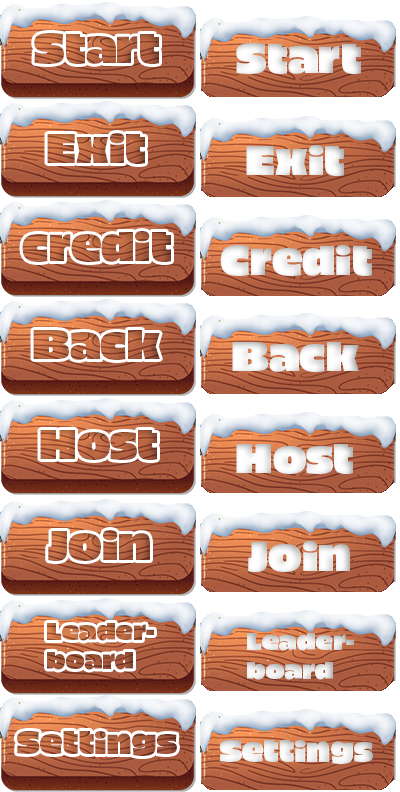
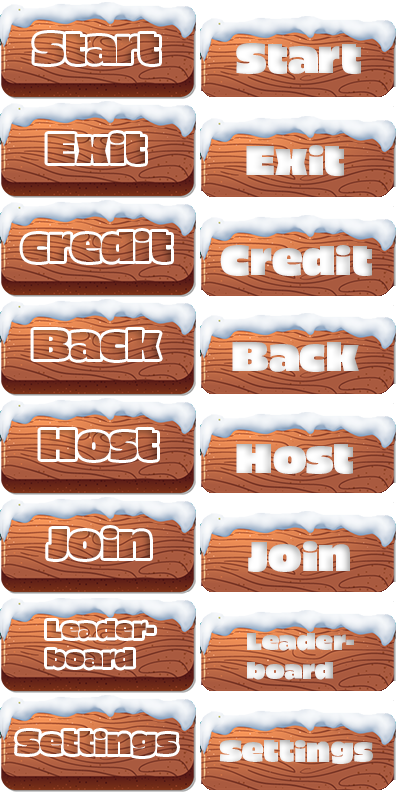
Fixed new menus and buttons

Changed region(s): [[0.0, 0.6364, 0.51, 0.8788]]

diff --git a/client/src/main.c b/client/src/main.c
@@ -92,7 +92,7 @@ int initializations(Game *pGame){
         return 0;
 	}
     
-    if(SDLNet_ResolveHost(&(pGame->serverAddress), "130.229.190.151", 2069)){
+    if(SDLNet_ResolveHost(&(pGame->serverAddress), "130.229.158.197", 2069)){
         printf("SDLNet_ResolveHost(127.0.0.1 2000): %s\n", SDLNet_GetError());
         return 0;
     }
@@ -188,44 +188,29 @@ void run(Game *pGame){
             int mouseX, mouseY;
             case MENU:
                 SDL_GetMouseState(&mouseX, &mouseY);
-                if(!joining){
-                    SDL_SetRenderDrawColor(pGame->pRenderer,255,255,255,255);
-                    SDL_RenderClear(pGame->pRenderer);
-                    renderMenuBackground(pGame->pMenuBackground);
-                    for(int i = 0; i < 3;i++){
-                        if(hover(mouseX, mouseY, pGame->pButton[i])){
-                            drawButton(pGame->pButton[i], i+3);
-                        }
-                        else{
-                            drawButton(pGame->pButton[i], i);
-                        }
-                    }
-                    SDL_RenderPresent(pGame->pRenderer);  
-                }
+                SDL_SetRenderDrawColor(pGame->pRenderer,255,255,255,255);
+                SDL_RenderClear(pGame->pRenderer);
+                renderMenuBackground(pGame->pMenuBackground);
+                drawButton(pGame->pButton[0], 0, hover(mouseX, mouseY, pGame->pButton[0]));
+                drawButton(pGame->pButton[1], 1, hover(mouseX, mouseY, pGame->pButton[1]));
+                drawButton(pGame->pButton[2], 2, hover(mouseX, mouseY, pGame->pButton[2]));
+                drawButton(pGame->pButton[6], 6, hover(mouseX, mouseY, pGame->pButton[6]));
+                drawButton(pGame->pButton[7], 7, hover(mouseX, mouseY, pGame->pButton[7]));
+                SDL_RenderPresent(pGame->pRenderer);  
                 if(SDL_PollEvent(&event)){
                     if(event.type == SDL_QUIT){
                         active = false;
                     }
                     if(!joining && event.type == SDL_MOUSEBUTTONDOWN){
-                        if(mouseX >= 200 && mouseX <= 600 && mouseY >= 200 && mouseY <= 355){
-                            /*joining = 1;
-                            cData.playerNumber =- 1;
-                            memcpy(pGame->pPacket->data, &cData, sizeof(ClientData));
-                            pGame->pPacket->len = sizeof(ClientData);*/
+                        if(mouseX >= 200 && mouseX <= 600 && mouseY >= 150 && mouseY <= 348){
                             pGame->state = JOIN;
                         }
-                        if(mouseX >= 300 && mouseX <= 500 && mouseY >= 400 && mouseY <= 505){
+                        if(mouseX >= 300 && mouseX <= 500 && mouseY >= 570 && mouseY <= 669){
                             active = false;
                         }
-                        if(mouseX >= 580 && mouseX <= 780 && mouseY >= 650 && mouseY <= 755){
+                        if(mouseX >= 580 && mouseX <= 780 && mouseY >= 660 && mouseY <= 759){
                             pGame->state = CREDITS;
                         }
-                    }
-                    if(joining){
-                        SDL_SetRenderDrawColor(pGame->pRenderer,255,255,255,255);
-                        SDL_RenderClear(pGame->pRenderer);
-                        drawText(pGame->pStartText);
-                        SDL_RenderPresent(pGame->pRenderer);
                     }
                 }
                 if(joining){
@@ -256,10 +241,20 @@ void run(Game *pGame){
                 SDL_SetRenderDrawColor(pGame->pRenderer,255,255,255,255);
                 SDL_RenderClear(pGame->pRenderer);
                 renderMenuBackground(pGame->pCreditBackground);
-                drawButton(pGame->pButton[3], 1);
+                drawButton(pGame->pButton[3], 3, hover(mouseX, mouseY, pGame->pButton[3]));
                 SDL_RenderPresent(pGame->pRenderer);
                 break;
             case JOIN:
+                SDL_GetMouseState(&mouseX, &mouseY);
+                if(!joining){
+                    SDL_SetRenderDrawColor(pGame->pRenderer,255,255,255,255);
+                    SDL_RenderClear(pGame->pRenderer);
+                    renderMenuBackground(pGame->pMenuBackground);
+                    drawButton(pGame->pButton[3], 3, hover(mouseX, mouseY, pGame->pButton[3]));
+                    drawButton(pGame->pButton[4], 4, hover(mouseX, mouseY, pGame->pButton[4]));
+                    drawButton(pGame->pButton[5], 5, hover(mouseX, mouseY, pGame->pButton[5]));
+                    SDL_RenderPresent(pGame->pRenderer);
+                }
                 if(SDL_PollEvent(&event)){
                     if(event.type == SDL_QUIT){
                         active = false;
@@ -267,12 +262,33 @@ void run(Game *pGame){
                     if(event.key.keysym.scancode == SDL_SCANCODE_B){
                         pGame->state = MENU;
                     }
+                    if(!joining && event.type == SDL_MOUSEBUTTONDOWN){
+                        if(mouseX >= 300 && mouseX <= 500 && mouseY >= 200 && mouseY <= 299){
+                            joining = 1;
+                            cData.playerNumber =- 1;
+                            memcpy(pGame->pPacket->data, &cData, sizeof(ClientData));
+                            pGame->pPacket->len = sizeof(ClientData);
+                        }
+                        if(mouseX >= 300 && mouseX <= 500 && mouseY >= 660 && mouseY <= 759){
+                            pGame->state = MENU;
+                        }
+                    }
+                    if(joining){
+                        SDL_SetRenderDrawColor(pGame->pRenderer,255,255,255,255);
+                        SDL_RenderClear(pGame->pRenderer);
+                        drawText(pGame->pStartText);
+                        SDL_RenderPresent(pGame->pRenderer);
+                    }
                 }
-                SDL_SetRenderDrawColor(pGame->pRenderer,255,255,255,255);
-                SDL_RenderClear(pGame->pRenderer);
-                renderMenuBackground(pGame->pMenuBackground);
-                SDL_RenderPresent(pGame->pRenderer);
-
+                if(joining){
+                    SDLNet_UDP_Send(pGame->pSocket, -1, pGame->pPacket);
+                }
+                if(SDLNet_UDP_Recv(pGame->pSocket,pGame->pPacket)==1){
+                    updateWithServerData(pGame);
+                    if(pGame->state == ONGOING){
+                        joining = 0;
+                    }
+                }
             break;
             case ONGOING:
                 while(SDLNet_UDP_Recv(pGame->pSocket, pGame->pPacket)){
@@ -292,6 +308,7 @@ void run(Game *pGame){
                     if (!isColliding(characterRect, snowballRect)){
                         setCharacterDead(pGame->pCharacter[pGame->characterNumber]);
                         cData.command = DEAD;
+                        cData.command = FREEZE;
                         memcpy(pGame->pPacket->data, &cData, sizeof(ClientData));
                         pGame->pPacket->len = sizeof(ClientData);
                         SDLNet_UDP_Send(pGame->pSocket, -1,pGame->pPacket);

diff --git a/lib/src/button.c b/lib/src/button.c
@@ -43,29 +43,35 @@ int hover(int x, int y, Button *pButton){
     return 0;
 }
 
-void drawButton(Button *pButton , int index){
+void drawButton(Button *pButton , int index , int hover){
 
-    if (index == 1){
-        pButton->buttonSrcRect.x = 400;
+    if(index == 0){
+        pButton->buttonSrcRect.y = 0;
     }
-    else if (index == 2){
-        pButton->buttonSrcRect.x = 800;
+    if(index == 1){
+        pButton->buttonSrcRect.y = 99 * index;
     }
-    else if (index == 3){
-        pButton->buttonSrcRect.x = 200;
+    if(index == 2){
+        pButton->buttonSrcRect.y = 99 * index;
     }
-    else if (index == 4){
-        pButton->buttonSrcRect.x = 600;
+    if(index == 3){
+        pButton->buttonSrcRect.y = 99 * index;
     }
-    else if (index == 5){
-        pButton->buttonSrcRect.x = 1000;
+    if(index == 4){
+        pButton->buttonSrcRect.y = 99 * index;
     }
-    else {
-        pButton->buttonSrcRect.x = 0;
+    if(index == 5){
+        pButton->buttonSrcRect.y = 99 * index;
     }
-    pButton->buttonSrcRect.y = 0;
+    if(index == 6){
+        pButton->buttonSrcRect.y = 99 * index;
+    }
+    if(index == 7){
+        pButton->buttonSrcRect.y = 99 * index;
+    }
+    pButton->buttonSrcRect.x = 200 * hover;
     pButton->buttonSrcRect.w = 200;
-    pButton->buttonSrcRect.h = 105;
+    pButton->buttonSrcRect.h = 99;
 
     SDL_RenderCopy(pButton->pRenderer, pButton->pTexture, &(pButton->buttonSrcRect), &(pButton->buttonDesRect));
 }
@@ -76,28 +82,52 @@ void destroyButton(Button *pButton){
 }
 void setDesRect(Button *pButton, int index){
 
-    if (index == 0){
+    if (index == 0){ //stora startknappen
         pButton->buttonDesRect.x = 200;
-        pButton->buttonDesRect.y = 200;
+        pButton->buttonDesRect.y = 150;
         pButton->buttonDesRect.w = 400;
-        pButton->buttonDesRect.h = 155;
+        pButton->buttonDesRect.h = 198;
     }
-    else if (index == 1){
+    else if(index == 1){ //exit
         pButton->buttonDesRect.x = 300;
-        pButton->buttonDesRect.y = 400;
+        pButton->buttonDesRect.y = 570;
         pButton->buttonDesRect.w = 200;
-        pButton->buttonDesRect.h = 105;
+        pButton->buttonDesRect.h = 99;
     }
-    else if(index == 2){
+    else if(index == 2){ //credits
         pButton->buttonDesRect.x = 580;
-        pButton->buttonDesRect.y = 650;
+        pButton->buttonDesRect.y = 660;
         pButton->buttonDesRect.w = 200;
-        pButton->buttonDesRect.h = 105;
+        pButton->buttonDesRect.h = 99;  
     }
-    else if(index == 3){
+    else if(index == 3){ //back
         pButton->buttonDesRect.x = 300;
         pButton->buttonDesRect.y = 660;
         pButton->buttonDesRect.w = 200;
-        pButton->buttonDesRect.h = 105;
+        pButton->buttonDesRect.h = 99;  
+    }
+    else if(index == 4){ //host
+        pButton->buttonDesRect.x = 300;
+        pButton->buttonDesRect.y = 310;
+        pButton->buttonDesRect.w = 200;
+        pButton->buttonDesRect.h = 99;  
+    }
+    else if(index == 5){ //join
+        pButton->buttonDesRect.x = 300;
+        pButton->buttonDesRect.y = 200;
+        pButton->buttonDesRect.w = 200;
+        pButton->buttonDesRect.h = 99;  
+    }
+    else if (index == 6){ //leaderboard
+        pButton->buttonDesRect.x = 300;
+        pButton->buttonDesRect.y = 350;
+        pButton->buttonDesRect.w = 200;
+        pButton->buttonDesRect.h = 99;
+    }
+    else if(index == 7){ //settings
+        pButton->buttonDesRect.x = 300;
+        pButton->buttonDesRect.y = 460;
+        pButton->buttonDesRect.w = 200;
+        pButton->buttonDesRect.h = 99;
     }
 }

diff --git a/lib/src/snowball.c b/lib/src/snowball.c
@@ -75,24 +75,24 @@ void startSnowball(Snowball *pSnowball, int startX, int startY, int directionInd
             pSnowball->x_vel = 0;
             pSnowball->y_vel = -SNOWBALLSPEED;
             pSnowball->x_pos = startX;
-            pSnowball->y_pos = startY - 5;
+            pSnowball->y_pos = startY - 7;
         break;
         case 1: 
             pSnowball->x_vel = SNOWBALLSPEED;
             pSnowball->y_vel = 0;
-            pSnowball->x_pos = startX + 19;
+            pSnowball->x_pos = startX + 27;
             pSnowball->y_pos = startY;
         break;
         case 2: 
             pSnowball->x_vel = 0;
             pSnowball->y_vel = SNOWBALLSPEED;
             pSnowball->x_pos = startX;
-            pSnowball->y_pos = startY + 27;
+            pSnowball->y_pos = startY + 29;
         break;
         case 3: 
             pSnowball->x_vel = -SNOWBALLSPEED;
             pSnowball->y_vel = 0;
-            pSnowball->x_pos = startX - 5;
+            pSnowball->x_pos = startX - 7;
             pSnowball->y_pos = startY;
         break;
     }

diff --git a/lib/src/character.c b/lib/src/character.c
@@ -65,8 +65,8 @@ Character *createCharacter(int number, SDL_Renderer *pRenderer, int window_w, in
         pCharacter->yStart = pCharacter->y_pos = pCharacter->characterRect.y = 100;
         break;
     case 2:
-        pCharacter->xStart = pCharacter->x_pos = pCharacter->characterRect.x = 100;
-        pCharacter->yStart = pCharacter->y_pos = pCharacter->characterRect.y = 600;
+        pCharacter->xStart = pCharacter->x_pos = pCharacter->characterRect.x = 95;
+        pCharacter->yStart = pCharacter->y_pos = pCharacter->characterRect.y = 610;
         break;
     case 3:
         pCharacter->xStart = pCharacter->x_pos = pCharacter->characterRect.x = 700;

diff --git a/lib/include/characterData.h b/lib/include/characterData.h
@@ -2,14 +2,14 @@
 #define character_data_h
 #define WINDOW_HEIGHT 800
 #define WINDOW_WIDTH 800
-#define CHARACTERS 2
+#define CHARACTERS 3
 #define MAXSNOWBALLS 5
 #include <stdbool.h>
 
 enum gameState{MENU, START, JOIN, ONGOING, GAME_OVER, CREDITS};
 typedef enum gameState GameState;
 
-enum clientCommand{READY, UP, DOWN, LEFT, RIGHT, SHOOT, STOPX, STOPY, DEAD};
+enum clientCommand{READY, UP, DOWN, LEFT, RIGHT, SHOOT, STOPX, STOPY, DEAD, FREEZE};
 typedef enum clientCommand ClientCommand;
 
 struct clientData{

diff --git a/lib/include/button.h b/lib/include/button.h
@@ -1,11 +1,11 @@
 #ifndef button_h
 #define button_h
-#define NROFBUTTONS 4
+#define NROFBUTTONS 8
 
 typedef struct button Button;
 
 Button *createButton(SDL_Renderer *pRenderer, int x, int y, int w, int h); 
-void drawButton(Button *pButton , int index);
+void drawButton(Button *pButton , int index , int hover);
 void destroyButton(Button *pButton);
 int hover(int x , int y, Button *pButton);
 void setDesRect(Button *pButton, int index);
